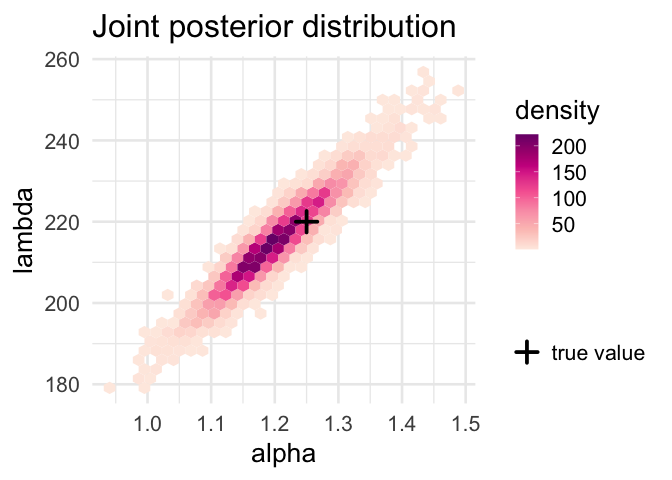
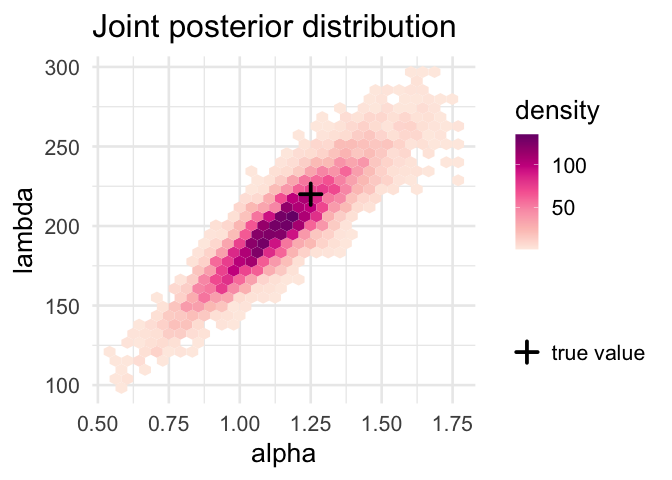
make experimental design & lambda prior more realistic

diff --git a/compet_disc_beverton-holt/compet_disc_beverton-holt.md b/compet_disc_beverton-holt/compet_disc_beverton-holt.md
@@ -1,7 +1,7 @@
 Competitive Beverton-Holt in discrete time
 ================
 W.K. Petry
-2021-Feb-12
+2021-Feb-13
 
 ## The model
 
@@ -123,8 +123,8 @@ alpha <- 1.25
 
 ## generate synthetic data
 set.seed(58428)
-N <- 500L  # number of observed individuals
-bkgd_dens <- as.integer(round(runif(n = N, min = 0L, max = 100)))
+N <- 100L  # number of observed individuals
+bkgd_dens <- as.integer(round(runif(n = N, min = 0L, max = 250L)))
 offspring <- rpois(n = N, lambda = (lambda / (1 + alpha * bkgd_dens)))
 
 dat <- list(N = N, bkgd_dens = bkgd_dens, offspring = offspring)
@@ -132,7 +132,7 @@ dat <- list(N = N, bkgd_dens = bkgd_dens, offspring = offspring)
 ## add priors
 ## (note both parameters are truncated at zero by the Stan code)
 dat$lambda_mean <- 200
-dat$lambda_sd <- 20
+dat$lambda_sd <- 30
 dat$alpha_mean <- 0.5
 dat$alpha_sd <- 0.75
 
@@ -150,29 +150,29 @@ ps <- bh$sample(data = dat, iter_warmup = 1000, iter_sampling = 2000, refresh = 
     ## Chain 1 Iteration: 1001 / 3000 [ 33%]  (Sampling) 
     ## Chain 1 Iteration: 2000 / 3000 [ 66%]  (Sampling) 
     ## Chain 1 Iteration: 3000 / 3000 [100%]  (Sampling) 
-    ## Chain 1 finished in 1.5 seconds.
+    ## Chain 1 finished in 0.3 seconds.
     ## Chain 2 Iteration:    1 / 3000 [  0%]  (Warmup) 
     ## Chain 2 Iteration: 1000 / 3000 [ 33%]  (Warmup) 
     ## Chain 2 Iteration: 1001 / 3000 [ 33%]  (Sampling) 
     ## Chain 2 Iteration: 2000 / 3000 [ 66%]  (Sampling) 
     ## Chain 2 Iteration: 3000 / 3000 [100%]  (Sampling) 
-    ## Chain 2 finished in 1.7 seconds.
+    ## Chain 2 finished in 0.3 seconds.
     ## Chain 3 Iteration:    1 / 3000 [  0%]  (Warmup) 
     ## Chain 3 Iteration: 1000 / 3000 [ 33%]  (Warmup) 
     ## Chain 3 Iteration: 1001 / 3000 [ 33%]  (Sampling) 
     ## Chain 3 Iteration: 2000 / 3000 [ 66%]  (Sampling) 
     ## Chain 3 Iteration: 3000 / 3000 [100%]  (Sampling) 
-    ## Chain 3 finished in 1.6 seconds.
+    ## Chain 3 finished in 0.3 seconds.
     ## Chain 4 Iteration:    1 / 3000 [  0%]  (Warmup) 
     ## Chain 4 Iteration: 1000 / 3000 [ 33%]  (Warmup) 
     ## Chain 4 Iteration: 1001 / 3000 [ 33%]  (Sampling) 
     ## Chain 4 Iteration: 2000 / 3000 [ 66%]  (Sampling) 
     ## Chain 4 Iteration: 3000 / 3000 [100%]  (Sampling) 
-    ## Chain 4 finished in 1.8 seconds.
+    ## Chain 4 finished in 0.3 seconds.
     ## 
     ## All 4 chains finished successfully.
-    ## Mean chain execution time: 1.6 seconds.
-    ## Total execution time: 7.1 seconds.
+    ## Mean chain execution time: 0.3 seconds.
+    ## Total execution time: 1.8 seconds.
 
 ``` r
 pdat <- as_draws_df(ps$draws(variables = c("lambda", "alpha")))
@@ -189,10 +189,10 @@ summarize_draws(ps$draws(variables = c("lambda", "alpha")))  # posterior summary
 ```
 
     ## # A tibble: 2 x 10
-    ##   variable   mean median     sd     mad     q5    q95  rhat ess_bulk ess_tail
-    ##   <chr>     <dbl>  <dbl>  <dbl>   <dbl>  <dbl>  <dbl> <dbl>    <dbl>    <dbl>
-    ## 1 lambda   215.   215.   9.97   10.0    199.   232.    1.00    1739.    1970.
-    ## 2 alpha      1.20   1.20 0.0664  0.0656   1.10   1.31  1.00    1775.    1789.
+    ##   variable   mean median     sd    mad      q5    q95  rhat ess_bulk ess_tail
+    ##   <chr>     <dbl>  <dbl>  <dbl>  <dbl>   <dbl>  <dbl> <dbl>    <dbl>    <dbl>
+    ## 1 lambda   199.   199.   28.1   27.8   153.    247.    1.00    1699.    1483.
+    ## 2 alpha      1.14   1.14  0.180  0.175   0.859   1.45  1.00    1658.    1567.
 
 ``` r
 ggplot(data = NULL, aes(x = alpha, y = lambda))+
